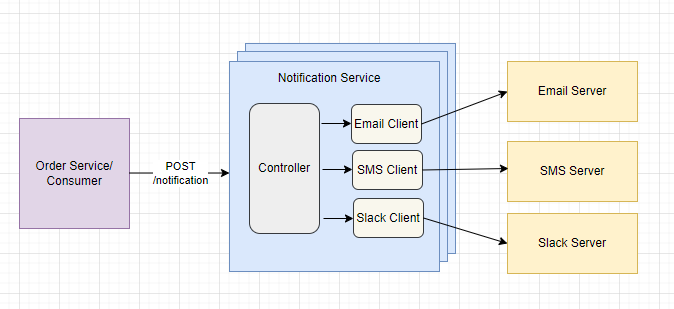
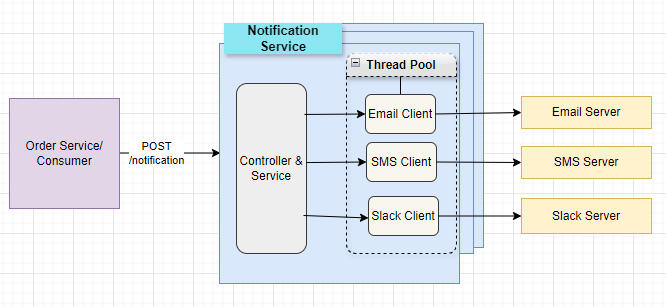
Updated README.md file Implemented asych processing for notification

diff --git a/src/main/java/com/example/notification/service/NotificationService.java b/src/main/java/com/example/notification/service/NotificationService.java
@@ -1,13 +1,10 @@
 package com.example.notification.service;
 
-import com.example.notification.integration.NotificationClient;
 import com.example.notification.model.ServiceNotificationRequest;
 import com.example.notification.model.ServiceNotificationResponse;
-import com.example.notification.model.integration.ChannelNotificationRequest;
 import org.springframework.beans.factory.annotation.Autowired;
 import org.springframework.stereotype.Service;
 
-import java.util.List;
 import java.util.UUID;
 
 import static java.lang.String.valueOf;
@@ -16,31 +13,18 @@ import static java.lang.String.valueOf;
 public class NotificationService {
 
     @Autowired
-    private List<NotificationClient> notificationClientsList;
+    private NotificationProcessor notificationProcessor;
 
     public ServiceNotificationResponse processNotification(ServiceNotificationRequest request) {
 
         String notificationId = valueOf(UUID.randomUUID());
 
-        notificationClientsList.stream()
-                .filter(NotificationClient::isChannelEnabled)
-                .forEach(channel -> channel.notify(buildChannelNotificationRequest(request, notificationId)));
+        //Process notification asynchronously
+        notificationProcessor.processNotification(request, notificationId);
 
         return ServiceNotificationResponse.builder()
                 .notificationId(notificationId)
                 .orderId(request.getOrderId())
                 .build();
-    }
-
-   //TODO : Replace below manual mapping with Java mapping framework like mapStruct
-    private ChannelNotificationRequest buildChannelNotificationRequest(ServiceNotificationRequest request, String notificationId) {
-        ChannelNotificationRequest channelNotificationRequest = new ChannelNotificationRequest();
-        channelNotificationRequest.setNotificationId(notificationId);
-        channelNotificationRequest.setOrderId(request.getOrderId());
-        channelNotificationRequest.setMobile(request.getMobile());
-        channelNotificationRequest.setMessage(request.getMessage());
-        channelNotificationRequest.setCustomer(request.getCustomer());
-
-        return channelNotificationRequest;
     }
 }

diff --git a/src/main/java/com/example/notification/service/NotificationProcessor.java b/src/main/java/com/example/notification/service/NotificationProcessor.java
@@ -1,0 +1,41 @@
+package com.example.notification.service;
+
+import com.example.notification.integration.NotificationClient;
+import com.example.notification.model.ServiceNotificationRequest;
+import com.example.notification.model.integration.ChannelNotificationRequest;
+import org.springframework.beans.factory.annotation.Autowired;
+import org.springframework.core.task.TaskExecutor;
+import org.springframework.stereotype.Service;
+
+import java.util.List;
+
+@Service
+public class NotificationProcessor {
+
+    //TODO : Default task executor is used for simplicity. In real world applications, executor bean needs to be configured as per system load
+    @Autowired
+    private TaskExecutor taskExecutor;
+
+    @Autowired
+    private List<NotificationClient> notificationClientsList;
+
+    public void processNotification(ServiceNotificationRequest request, String notificationId) {
+        taskExecutor.execute(() -> notificationClientsList.stream()
+                                    .filter(NotificationClient::isChannelEnabled)
+                                    .forEach(channel -> channel.notify(buildChannelNotificationRequest(request, notificationId)))
+        );
+    }
+
+
+    //TODO : Replace below manual mapping with Java mapping framework like mapStruct
+    private ChannelNotificationRequest buildChannelNotificationRequest(ServiceNotificationRequest request, String notificationId) {
+        return ChannelNotificationRequest.builder()
+                .email(request.getCustomer())
+                .message(request.getMessage())
+                .orderId(request.getOrderId())
+                .customer(request.getCustomer())
+                .mobile(request.getMobile())
+                .notificationId(notificationId)
+                .build();
+    }
+}

diff --git a/src/main/java/com/example/notification/integration/impl/EmailNotificationClient.java b/src/main/java/com/example/notification/integration/impl/EmailNotificationClient.java
@@ -22,7 +22,7 @@ public class EmailNotificationClient implements NotificationClient {
     private Boolean isChannelEnabled = true;
     @Override
     public ChannelNotificationResponse notify(ChannelNotificationRequest request) {
-        //In real life application, this method will integrate with email server and send email to recipient
+        //In real world application, this method will integrate with email server and send email to recipient
         log.info("Email notification sent for Order ID : {} and notification ID : {}", request.getOrderId(), request.getNotificationId());
 
         return ChannelNotificationResponse.builder()
@@ -30,6 +30,10 @@ public class EmailNotificationClient implements NotificationClient {
                 .orderId(request.getOrderId())
                 .status("OK")
                 .build();
+
+        //TODO : Exception handling is not done. In real world, log exception and retry sending notification.
+        // Retry can be done by using resiliency4j library
+        // If retry failed say for three attempts, save notification in persistent store like DB so that those notification would be processed manually if required
     }
 
     public Boolean isChannelEnabled() {

diff --git a/src/main/java/com/example/notification/integration/impl/SmsNotificationClient.java b/src/main/java/com/example/notification/integration/impl/SmsNotificationClient.java
@@ -15,7 +15,7 @@ public class SmsNotificationClient implements NotificationClient {
     @Override
     public ChannelNotificationResponse notify(ChannelNotificationRequest request) {
 
-        //In real life application, this method will integrate with SMTP server and send notification to SMS
+        //In real world application, this method will integrate with SMTP server and send notification to SMS
         log.info("SMS notification sent for Order ID : {} and notification ID : {}", request.getOrderId(), request.getNotificationId());
 
         return ChannelNotificationResponse.builder()
@@ -23,9 +23,14 @@ public class SmsNotificationClient implements NotificationClient {
                 .orderId(request.getOrderId())
                 .status("OK")
                 .build();
+
+        //TODO : Exception handling is not done. In real world, log exception and retry sending notification.
+        // Retry can be done by using resiliency4j library
+        // If retry failed say for three attempts, save notification in persistent store like DB so that those notification would be processed manually if required
     }
 
     public Boolean isChannelEnabled() {
         return isChannelEnabled;
     }
 }
+

diff --git a/src/main/java/com/example/notification/integration/impl/SlackNotificationClient.java b/src/main/java/com/example/notification/integration/impl/SlackNotificationClient.java
@@ -17,7 +17,7 @@ public class SlackNotificationClient implements NotificationClient {
     @Override
     public ChannelNotificationResponse notify(ChannelNotificationRequest request) {
 
-        //In real life application, this method will integrate with slack server and send notification to slack channel
+        //In real world application, this method will integrate with slack server and send notification to slack channel
         log.info("Slack notification sent for Order ID : {} and notification ID : {}", request.getOrderId(), request.getNotificationId());
 
         return ChannelNotificationResponse.builder()
@@ -25,6 +25,10 @@ public class SlackNotificationClient implements NotificationClient {
                 .orderId(request.getOrderId())
                 .status("OK")
                 .build();
+
+        //TODO : Exception handling is not done. In real world, log exception and retry sending notification.
+        // Retry can be done by using resiliency4j library
+        // If retry failed say for three attempts, save notification in persistent store like DB so that those notification would be processed manually if required
     }
 
     public Boolean isChannelEnabled() {

diff --git a/src/main/java/com/example/notification/controller/NotificationController.java b/src/main/java/com/example/notification/controller/NotificationController.java
@@ -23,9 +23,9 @@ public class NotificationController {
 
     @PostMapping("/notification")
     public ResponseEntity<ServiceNotificationResponse> sendNotification(@RequestBody ServiceNotificationRequest request) {
-        log.info("Received notification request for order Id : {}", request.getOrderId());
+        log.info("Received notification request : {}", request);
         ServiceNotificationResponse serviceNotificationResponse = notificationService.processNotification(request);
-        log.info("Notification request processed for order Id : {}", request.getOrderId());
+        log.info("Sent Notification response : {}", serviceNotificationResponse);
         return new ResponseEntity<>(serviceNotificationResponse, HttpStatus.OK);
     }
 }

diff --git a/src/main/java/com/example/notification/controller/ExceptionHandler.java b/src/main/java/com/example/notification/controller/ExceptionHandler.java
@@ -8,7 +8,7 @@ import org.springframework.web.bind.annotation.ControllerAdvice;
 import java.util.Date;
 
 @ControllerAdvice
-public class ExceptionController {
+public class ExceptionHandler {
     @org.springframework.web.bind.annotation.ExceptionHandler(value = Exception.class)
     public ResponseEntity<ErrorResponse> internalServerException(Exception ex) {
         ErrorResponse message = new ErrorResponse(

diff --git a/src/main/java/com/example/notification/model/integration/ChannelNotificationRequest.java b/src/main/java/com/example/notification/model/integration/ChannelNotificationRequest.java
@@ -1,8 +1,10 @@
 package com.example.notification.model.integration;
 
+import lombok.Builder;
 import lombok.Data;
 
 @Data
+@Builder
 public class ChannelNotificationRequest {
     private String notificationId;
     private String orderId;

diff --git a/README.md b/README.md
@@ -2,16 +2,19 @@
 
 # Description
 
-* Notification service is build to handle to order notification and delivered the notification messages the various channels.
-* Email, SMS and Slack channels are supported to deliver the notification.
+* Notification service is build to handle order notifications
+* Service delivers notification messages the various channels.
+* Email, SMS and Slack channels are supported
 * API service is easily extendable to support new channel to send notifications.
-* 
 
 <br/>
 
 ### Notification Service Architecture
+* **Scalability & High Availability** : Achieved by running multiple instances of notification service
+* **Performance** : Achieved by processing notification asynchronously. 
+* **Resiliency** : Not implemented in code for simplicity but using retry mechanism we can make service resilient & fault-tolerant.
 
-<img alt="screenshot" height="350" src="architecture.png" width="500"/>
+<img alt="screenshot" height="350" src="architecture.png" width="590"/>
 
 <br/>
 <br/>
@@ -46,11 +49,11 @@ Execute following command to run test cases
 ### Sample Log Statements
 
 ```
-2024-04-06T20:52:33.323+11:00  INFO 15684 --- [    Test worker] c.e.n.controller.NotificationController  : Received notification request for order Id : 12999922
-2024-04-06T20:52:33.330+11:00  INFO 15684 --- [    Test worker] c.e.n.i.impl.EmailNotificationClient     : Email notification sent for Order ID : 12999922 and notification ID : 23e6066b-9f43-4f1b-8b26-1eba580f6f95
-2024-04-06T20:52:33.331+11:00  INFO 15684 --- [    Test worker] c.e.n.i.impl.SlackNotificationClient     : Slack notification sent for Order ID : 12999922 and notification ID : 23e6066b-9f43-4f1b-8b26-1eba580f6f95
-2024-04-06T20:52:33.332+11:00  INFO 15684 --- [    Test worker] c.e.n.i.impl.SmsNotificationClient       : SMS notification sent for Order ID : 12999922 and notification ID : 23e6066b-9f43-4f1b-8b26-1eba580f6f95
-2024-04-06T20:52:33.333+11:00  INFO 15684 --- [    Test worker] c.e.n.controller.NotificationController  : Notification request processed for order Id : 12999922
+2024-04-06T22:30:03.053+11:00  INFO 8772 --- [    Test worker] c.e.n.controller.NotificationController  : Received notification request : ServiceNotificationRequest(orderId=12999922, customer=ABC Enterprises, email=abc@xyz.com, mobile=999991234, message=Your order has been dispatched)
+2024-04-06T22:30:03.064+11:00  INFO 8772 --- [    Test worker] c.e.n.controller.NotificationController  : Sent Notification response : ServiceNotificationResponse(notificationId=a4fd910e-e939-4eb7-802e-145821b9e465, orderId=12999922)
+2024-04-06T22:30:03.069+11:00  INFO 8772 --- [         task-1] c.e.n.i.impl.EmailNotificationClient     : Email notification sent for Order ID : 12999922 and notification ID : a4fd910e-e939-4eb7-802e-145821b9e465
+2024-04-06T22:30:03.070+11:00  INFO 8772 --- [         task-1] c.e.n.i.impl.SlackNotificationClient     : Slack notification sent for Order ID : 12999922 and notification ID : a4fd910e-e939-4eb7-802e-145821b9e465
+2024-04-06T22:30:03.071+11:00  INFO 8772 --- [         task-1] c.e.n.i.impl.SmsNotificationClient       : SMS notification sent for Order ID : 12999922 and notification ID : a4fd910e-e939-4eb7-802e-145821b9e465
 
 ```
 
@@ -68,6 +71,13 @@ curl --location 'http://localhost:8080/api/v1/notification' \
 "message": "Your order has been dispatched"
 }'
 ```
+
+<br/>
+
+### Leftover
+* Exception handling and system failures are not implemented for simplicity.
+* Extensive tests cases are not written as no business logic in code. Focus was more on design side.
+* Process multiple notifications in single request is not implemented for simplicity.
 
 <br/>
 
